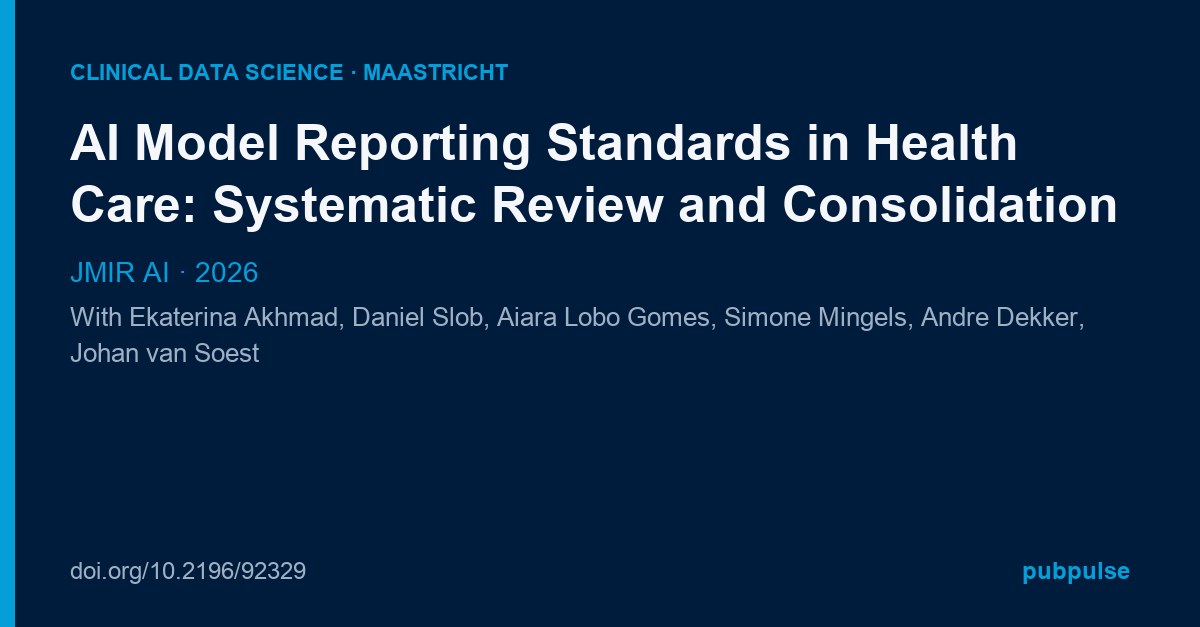
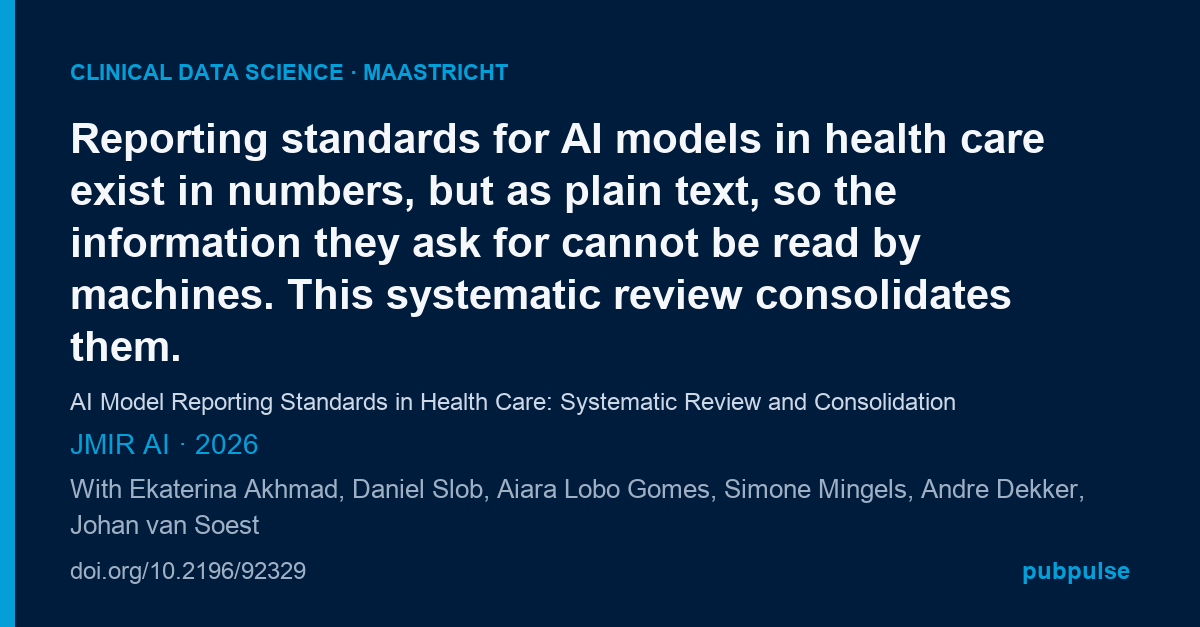
Figures must show the main finding: caption capture, Claude-based selection with description (fallback marked unchecked), finding-first cards; sample figure decisions

diff --git a/site/app.js b/site/app.js
@@ -882,7 +882,7 @@
     const share = "https://www.linkedin.com/sharing/share-offsite/?url=" + encodeURIComponent(w.doi || link);
     const flags = d.flags ? ` · ${d.flags} [check] mark${d.flags === 1 ? "" : "s"} to verify` : "";
     return `<details class="social-draft"><summary>LinkedIn draft <span class="meta">(AI-written, read before posting${esc(flags)})</span></summary>
-      ${d.card || (d.figure && d.figure.path) ? `<div class="draft-images">${d.figure && d.figure.path ? `<figure><img src="${esc(d.figure.path)}" alt="Figure from the paper" loading="lazy"><figcaption>${esc(d.figure.credit || "")} · <a href="${esc(d.figure.path)}" download>download</a></figcaption></figure>` : ""}${d.card ? `<figure><img src="${esc(d.card)}" alt="Card image for this paper" loading="lazy"><figcaption>Card · <a href="${esc(d.card)}" download>download</a></figcaption></figure>` : ""}</div>` : ""}
+      ${d.card || (d.figure && d.figure.path) ? `<div class="draft-images">${d.figure && d.figure.path ? `<figure><img src="${esc(d.figure.path)}" alt="Figure from the paper" loading="lazy"><figcaption>${d.figure.description ? `<span class="fig-desc">${esc(d.figure.description)}</span><br>` : ""}${esc(d.figure.credit || "")} · <a href="${esc(d.figure.path)}" download>download</a>${d.figure.chosen_by && !/claude/.test(d.figure.chosen_by) ? ` · <span class="badge warn">unchecked pick</span>` : ""}</figcaption></figure>` : ""}${d.card ? `<figure><img src="${esc(d.card)}" alt="Card image for this paper" loading="lazy"><figcaption>Card · <a href="${esc(d.card)}" download>download</a></figcaption></figure>` : ""}</div>` : ""}
       ${d.figure_note ? `<p class="meta">${esc(d.figure_note)}</p>` : ""}
       <pre class="draft-text">${esc(d.post)}</pre>
       ${d.short ? `<p class="draft-short"><b>Short:</b> ${esc(d.short)}</p>` : ""}

diff --git a/site/style.css b/site/style.css
@@ -2031,3 +2031,5 @@ button.type-seg:focus-visible { outline: 2px solid var(--accent); outline-offset
 .draft-images figure { margin: 0; }
 .draft-images img { width: 100%; height: auto; border-radius: 8px; border: 1px solid var(--line); background: #fff; }
 .draft-images figcaption { font-size: 12px; color: var(--muted); margin-top: 4px; }
+
+.fig-desc { color: var(--text); font-size: 13px; }

diff --git a/pubpulse/images.py b/pubpulse/images.py
@@ -50,7 +50,9 @@ def _wrap(text: str, font, max_width: int, draw) -> list[str]:
     return lines
 
 
-def make_card(w: dict, names: dict[str, str], out_path: Path, group_label: str = "Clinical Data Science · Maastricht") -> Path:
+def make_card(w: dict, names: dict[str, str], out_path: Path, group_label: str = "Clinical Data Science · Maastricht", finding: str | None = None) -> Path:
+    """Branded 1200x627 card. With `finding` (the main point, usually the first line of the draft post) the finding is the
+    headline and the title goes underneath; without it the title is the headline."""
     from PIL import Image, ImageDraw
 
     img = Image.new("RGB", CARD_SIZE, NAVY)
@@ -59,17 +61,27 @@ def make_card(w: dict, names: dict[str, str], out_path: Path, group_label: str =
     x, y, width = 70, 60, CARD_SIZE[0] - 140
     d.text((x, y), group_label.upper(), font=_font(22, True), fill=ACCENT)
     y += 54
-    title_font = _font(50, True)
-    lines = _wrap(w["title"], title_font, width, d)
-    if len(lines) > 4:
-        title_font = _font(40, True)
-        lines = _wrap(w["title"], title_font, width, d)[:5]
-        if len(_wrap(w["title"], title_font, width, d)) > 5:
-            lines[-1] = lines[-1].rstrip(".,;:") + " …"
+    headline = (finding or w["title"]).strip()
+    size = 50 if len(headline) < 120 else 42 if len(headline) < 200 else 36
+    head_font = _font(size, True)
+    lines = _wrap(headline, head_font, width, d)
+    while len(lines) > 5 and size > 30:
+        size -= 4
+        head_font = _font(size, True)
+        lines = _wrap(headline, head_font, width, d)
+    if len(lines) > 5:
+        lines = lines[:5]
+        lines[-1] = lines[-1].rstrip(".,;:") + " …"
     for line in lines:
-        d.text((x, y), line, font=title_font, fill=LIGHT)
-        y += int(title_font.size * 1.25)
-    y += 18
+        d.text((x, y), line, font=head_font, fill=LIGHT)
+        y += int(head_font.size * 1.25)
+    y += 14
+    if finding:
+        tf = _font(24)
+        for line in _wrap(w["title"], tf, width, d)[:2]:
+            d.text((x, y), line, font=tf, fill=(205, 215, 230))
+            y += 32
+        y += 8
     meta = " · ".join(x for x in (w.get("journal"), (w.get("publication_date") or "")[:4]) if x)
     d.text((x, y), meta, font=_font(28), fill=ACCENT)
     y += 46
@@ -127,7 +139,16 @@ def extract_figures(pdf_bytes: bytes, max_pages: int = 14, min_w: int = 480, min
                 if stat.stddev[0] < 12:  # blank or near-uniform
                     continue
                 score = wdt * hgt * (1.0 if pno < 7 else 0.6) * (1.1 if 1.1 <= wdt / hgt <= 2.0 else 1.0)
-                out.append({"image": im, "page": pno + 1, "score": score})
+                caption = ""
+                try:
+                    bbox = pymupdf.Rect(page.get_image_bbox(info))
+                    caps = [b for b in page.get_text("blocks") if b[4].strip().lower().startswith(("fig.", "figure", "fig "))]
+                    below = sorted((b for b in caps if b[1] >= bbox.y1 - 5), key=lambda b: b[1] - bbox.y1)
+                    above = sorted((b for b in caps if b[3] <= bbox.y0 + 5), key=lambda b: bbox.y0 - b[3])
+                    caption = " ".join((below or above)[0][4].split()) if (below or above) else ""
+                except Exception:  # noqa: BLE001
+                    pass
+                out.append({"image": im, "page": pno + 1, "score": score, "caption": caption})
     out.sort(key=lambda f: -f["score"])
     return out
 
@@ -163,7 +184,7 @@ def extract_vector_figures(pdf_bytes: bytes, max_pages: int = 14, zoom: float = 
                     continue
                 pix = page.get_pixmap(matrix=pymupdf.Matrix(zoom, zoom), clip=box, alpha=False)
                 im = Image.frombytes("RGB", (pix.width, pix.height), pix.samples)
-                out.append({"image": im, "page": pno + 1, "score": box.get_area() * zoom * zoom * (0.9 if pno < 7 else 0.5)})
+                out.append({"image": im, "page": pno + 1, "score": box.get_area() * zoom * zoom * (0.9 if pno < 7 else 0.5), "caption": " ".join(cap[4].split())})
     out.sort(key=lambda f: -f["score"])
     return out
 
@@ -175,14 +196,76 @@ def best_figures(pdf_bytes: bytes) -> list[dict]:
     return figs
 
 
+def describe_with_claude(w: dict, draft: dict, cands: list[dict], model: str) -> dict | None:
+    """Ask Claude to pick the candidate that shows the main finding (or none) and to describe it. Returns
+    {"choice": index|None, "description": str, "alt": str} or None when no API key / on failure."""
+    import base64
+    import io
+    import os
+    import re
+
+    try:
+        import anthropic
+    except ImportError:
+        return None
+    if not os.environ.get("ANTHROPIC_API_KEY") and not os.environ.get("ANTHROPIC_AUTH_TOKEN"):
+        return None
+    content = [{"type": "text", "text": (
+        "You help a research group pick ONE figure for a LinkedIn post about their paper. The figure must show the MAIN "
+        "FINDING of the paper, not the methods (flow diagrams, pipelines, PRISMA charts, study designs do not qualify unless "
+        "the paper is about the method itself). If no candidate shows the main finding, answer NONE.\n\n"
+        f"Title: {w['title']}\nAbstract: {w.get('abstract') or ''}\n\nDraft post (first line is the main finding):\n{draft.get('post', '')}\n\n"
+        "Answer with exactly:\n### CHOICE\n<candidate number or NONE>\n### DESCRIPTION\n<1-2 plain sentences for the post: what the figure "
+        "shows and how it supports the main finding; use only what is visible and in the abstract; no hype>\n### ALT\n<one-sentence alt text>"
+    )}]
+    for i, c in enumerate(cands, 1):
+        im = c["image"].copy()
+        im.thumbnail((1200, 1200))
+        buf = io.BytesIO()
+        im.save(buf, "PNG", optimize=True)
+        content.append({"type": "text", "text": f"Candidate {i} (page {c['page']}). Caption: {c.get('caption') or 'none found'}"})
+        content.append({"type": "image", "source": {"type": "base64", "media_type": "image/png", "data": base64.standard_b64encode(buf.getvalue()).decode()}})
+    try:
+        resp = anthropic.Anthropic().messages.create(model=model, max_tokens=2000, output_config={"effort": "medium"}, messages=[{"role": "user", "content": content}])
+    except anthropic.APIError as exc:
+        log.warning("figure selection failed: %s", exc)
+        return None
+    if resp.stop_reason == "refusal":
+        return None
+    text = "".join(b.text for b in resp.content if b.type == "text")
+    ch = re.search(r"###\s*CHOICE\s*\n\s*(\S+)", text)
+    de = re.search(r"###\s*DESCRIPTION\s*\n(.*?)(?=\n###|\Z)", text, re.S)
+    al = re.search(r"###\s*ALT\s*\n(.*?)(?=\n###|\Z)", text, re.S)
+    choice = None
+    if ch and ch.group(1).strip().upper() != "NONE":
+        try:
+            choice = int(re.sub(r"\D", "", ch.group(1))) - 1
+        except ValueError:
+            choice = None
+    if choice is not None and not 0 <= choice < len(cands):
+        choice = None
+    return {"choice": choice, "description": (de.group(1).strip() if de else ""), "alt": (al.group(1).strip() if al else ""), "model": resp.model}
+
+
 def credit_line(w: dict) -> str:
     first = (w.get("authors") or ["the authors"])[0]
     many = (w.get("author_count") or 1) > 1
     return f"Figure from {first}{' et al.' if many else ''}, {w.get('journal') or ''} ({(w.get('publication_date') or '')[:4]}), {w.get('license', '').upper()} · {w.get('doi') or ''}"
 
 
+def main_finding(draft: dict) -> str | None:
+    """First sentence/line of the post: the plain statement of the finding."""
+    post = (draft.get("post") or "").strip()
+    if not post:
+        return None
+    first = post.split("\n")[0].strip()
+    return first if 20 <= len(first) <= 260 else None
+
+
 def run(ids: list[str] | None = None, all_drafts: bool = False, force: bool = False) -> int:
     logging.basicConfig(level=logging.INFO, format="%(levelname)s %(message)s")
+    from .sync import load_config
+    model = ((load_config().get("social") or {}).get("model")) or "claude-opus-5-5"
     pubs = load_publications()
     names = {p["slug"]: p["name"] for p in pubs.get("people", [])}
     byid = {w["id"]: w for w in pubs.get("works", [])}
@@ -202,7 +285,7 @@ def run(ids: list[str] | None = None, all_drafts: bool = False, force: bool = Fa
             continue
         card = IMG_DIR / f"{d['id']}-card.png"
         if force or not card.exists():
-            make_card(w, names, card)
+            make_card(w, names, card, finding=main_finding(d))
             cards += 1
         d["card"] = f"data/social/images/{card.name}"
         fig = IMG_DIR / f"{d['id']}-figure.png"
@@ -212,13 +295,26 @@ def run(ids: list[str] | None = None, all_drafts: bool = False, force: bool = Fa
                 pdf = fetch_pdf(url, session)
                 if pdf:
                     break
-            cands = best_figures(pdf) if pdf else []
-            if cands:
-                im = cands[0]["image"]
+            cands = (best_figures(pdf) if pdf else [])[:4]
+            picked = describe_with_claude(w, d, cands, model) if cands else None
+            if cands and (picked is None or picked["choice"] is not None):
+                c = cands[picked["choice"]] if picked else cands[0]
+                im = c["image"]
                 im.thumbnail((1600, 1600))
                 im.save(fig, "PNG", optimize=True)
-                d["figure"] = {"path": f"data/social/images/{fig.name}", "page": cands[0]["page"], "credit": credit_line(w), "license": w.get("license")}
+                d["figure"] = {
+                    "path": f"data/social/images/{fig.name}", "page": c["page"], "caption": c.get("caption") or "",
+                    "credit": credit_line(w), "license": w.get("license"),
+                    "description": picked["description"] if picked else f"[check] {c.get('caption') or 'Figure from the paper'}",
+                    "alt": picked["alt"] if picked else (c.get("caption") or "Figure from the paper"),
+                    "chosen_by": "claude" if picked else "largest figure (no API key); description unverified",
+                }
                 figs += 1
+            elif cands and picked and picked["choice"] is None:
+                d["figure"] = None
+                d["figure_note"] = "no figure shows the main finding (judged by Claude); card only"
+                if fig.exists():
+                    fig.unlink()
             else:
                 d["figure"] = None
         elif not figure_allowed(w):

diff --git a/tests/test_images.py b/tests/test_images.py
@@ -32,3 +32,14 @@ def test_extract_figures_from_synthetic_pdf():
     figs = extract_figures(pdf)
     assert len(figs) == 1 and figs[0]["page"] == 1 and figs[0]["image"].size == (900, 600)
     assert "et al." in credit_line({"authors": ["X", "Y"], "author_count": 2, "journal": "J", "publication_date": "2026-01-01", "license": "cc-by", "doi": "d"})
+
+
+def test_main_finding_and_card_with_finding(tmp_path):
+    from PIL import Image
+    from pubpulse.images import main_finding, make_card
+    d = {"post": "Two privacy techniques kept hazard ratios almost unchanged while hiding individual time-to-event data.\n\nMore text."}
+    f = main_finding(d)
+    assert f and f.startswith("Two privacy techniques")
+    out = make_card({"title": "T", "journal": "J", "publication_date": "2026-01-01", "group_members": [], "doi": "https://doi.org/x"}, {}, tmp_path / "c.png", finding=f)
+    assert Image.open(out).size == (1200, 627)
+    assert main_finding({"post": "short"}) is None

diff --git a/social/samples-2026-10.md b/social/samples-2026-10.md
@@ -119,3 +119,22 @@ FAHR-Face, trained on 40 million face photos, estimates biological age within 5.
 - Paper 2's stored abstract is cut at 1,500 characters, so its result is missing. The pipeline will store full abstracts from now on.
 - Wenjie Liang is first author of paper 1 and on the staff page, but OpenAlex recorded no affiliation for him on it, so he is not listed as a group author. Adding his ORCID to the staff profile fixes this.
 - Paper 5 has one group author among 17; whether the group should promote it is a judgment call for the approval list.
+
+---
+
+## Images (added 2026-10-23)
+
+Every drafted paper gets a **card** (1200×627) with the main finding as headline, the title, journal, year and group
+authors. A **figure from the paper** is only used when the licence allows it (CC BY family, not ND) and only when it
+shows the main finding; methods figures are rejected.
+
+| Paper | Card | Figure | Why |
+|---|---|---|---|
+| Frontiers, federated survival analysis | yes | Figure 3, forest plot | Shows the finding directly: hazard ratios identical for standard and binned Cox models. Description: "Hazard ratios for the four clinical predictors are practically identical whether the federated Cox model sees exact event times or only binned ones (fixed or quantile bins). That is the paper's point: the privacy protection costs no accuracy." |
+| Medical Oncology, ITH review | yes | none | Only extractable figure is the PRISMA flow diagram: methods, not the finding. |
+| npj Breast Cancer | yes | none | Licence CC BY-NC-ND: no reuse of figures. |
+| Lancet Digital Health, FAHR-Face | yes | none | Licence CC BY-NC-ND: no reuse of figures. |
+| JMIR AI, reporting standards | yes | none | JMIR serves no PDF to automated requests. |
+
+With the API key in place, the same selection and description step runs automatically with Claude; without it, the
+largest figure is taken and marked "unchecked pick" so a person always looks before posting.
